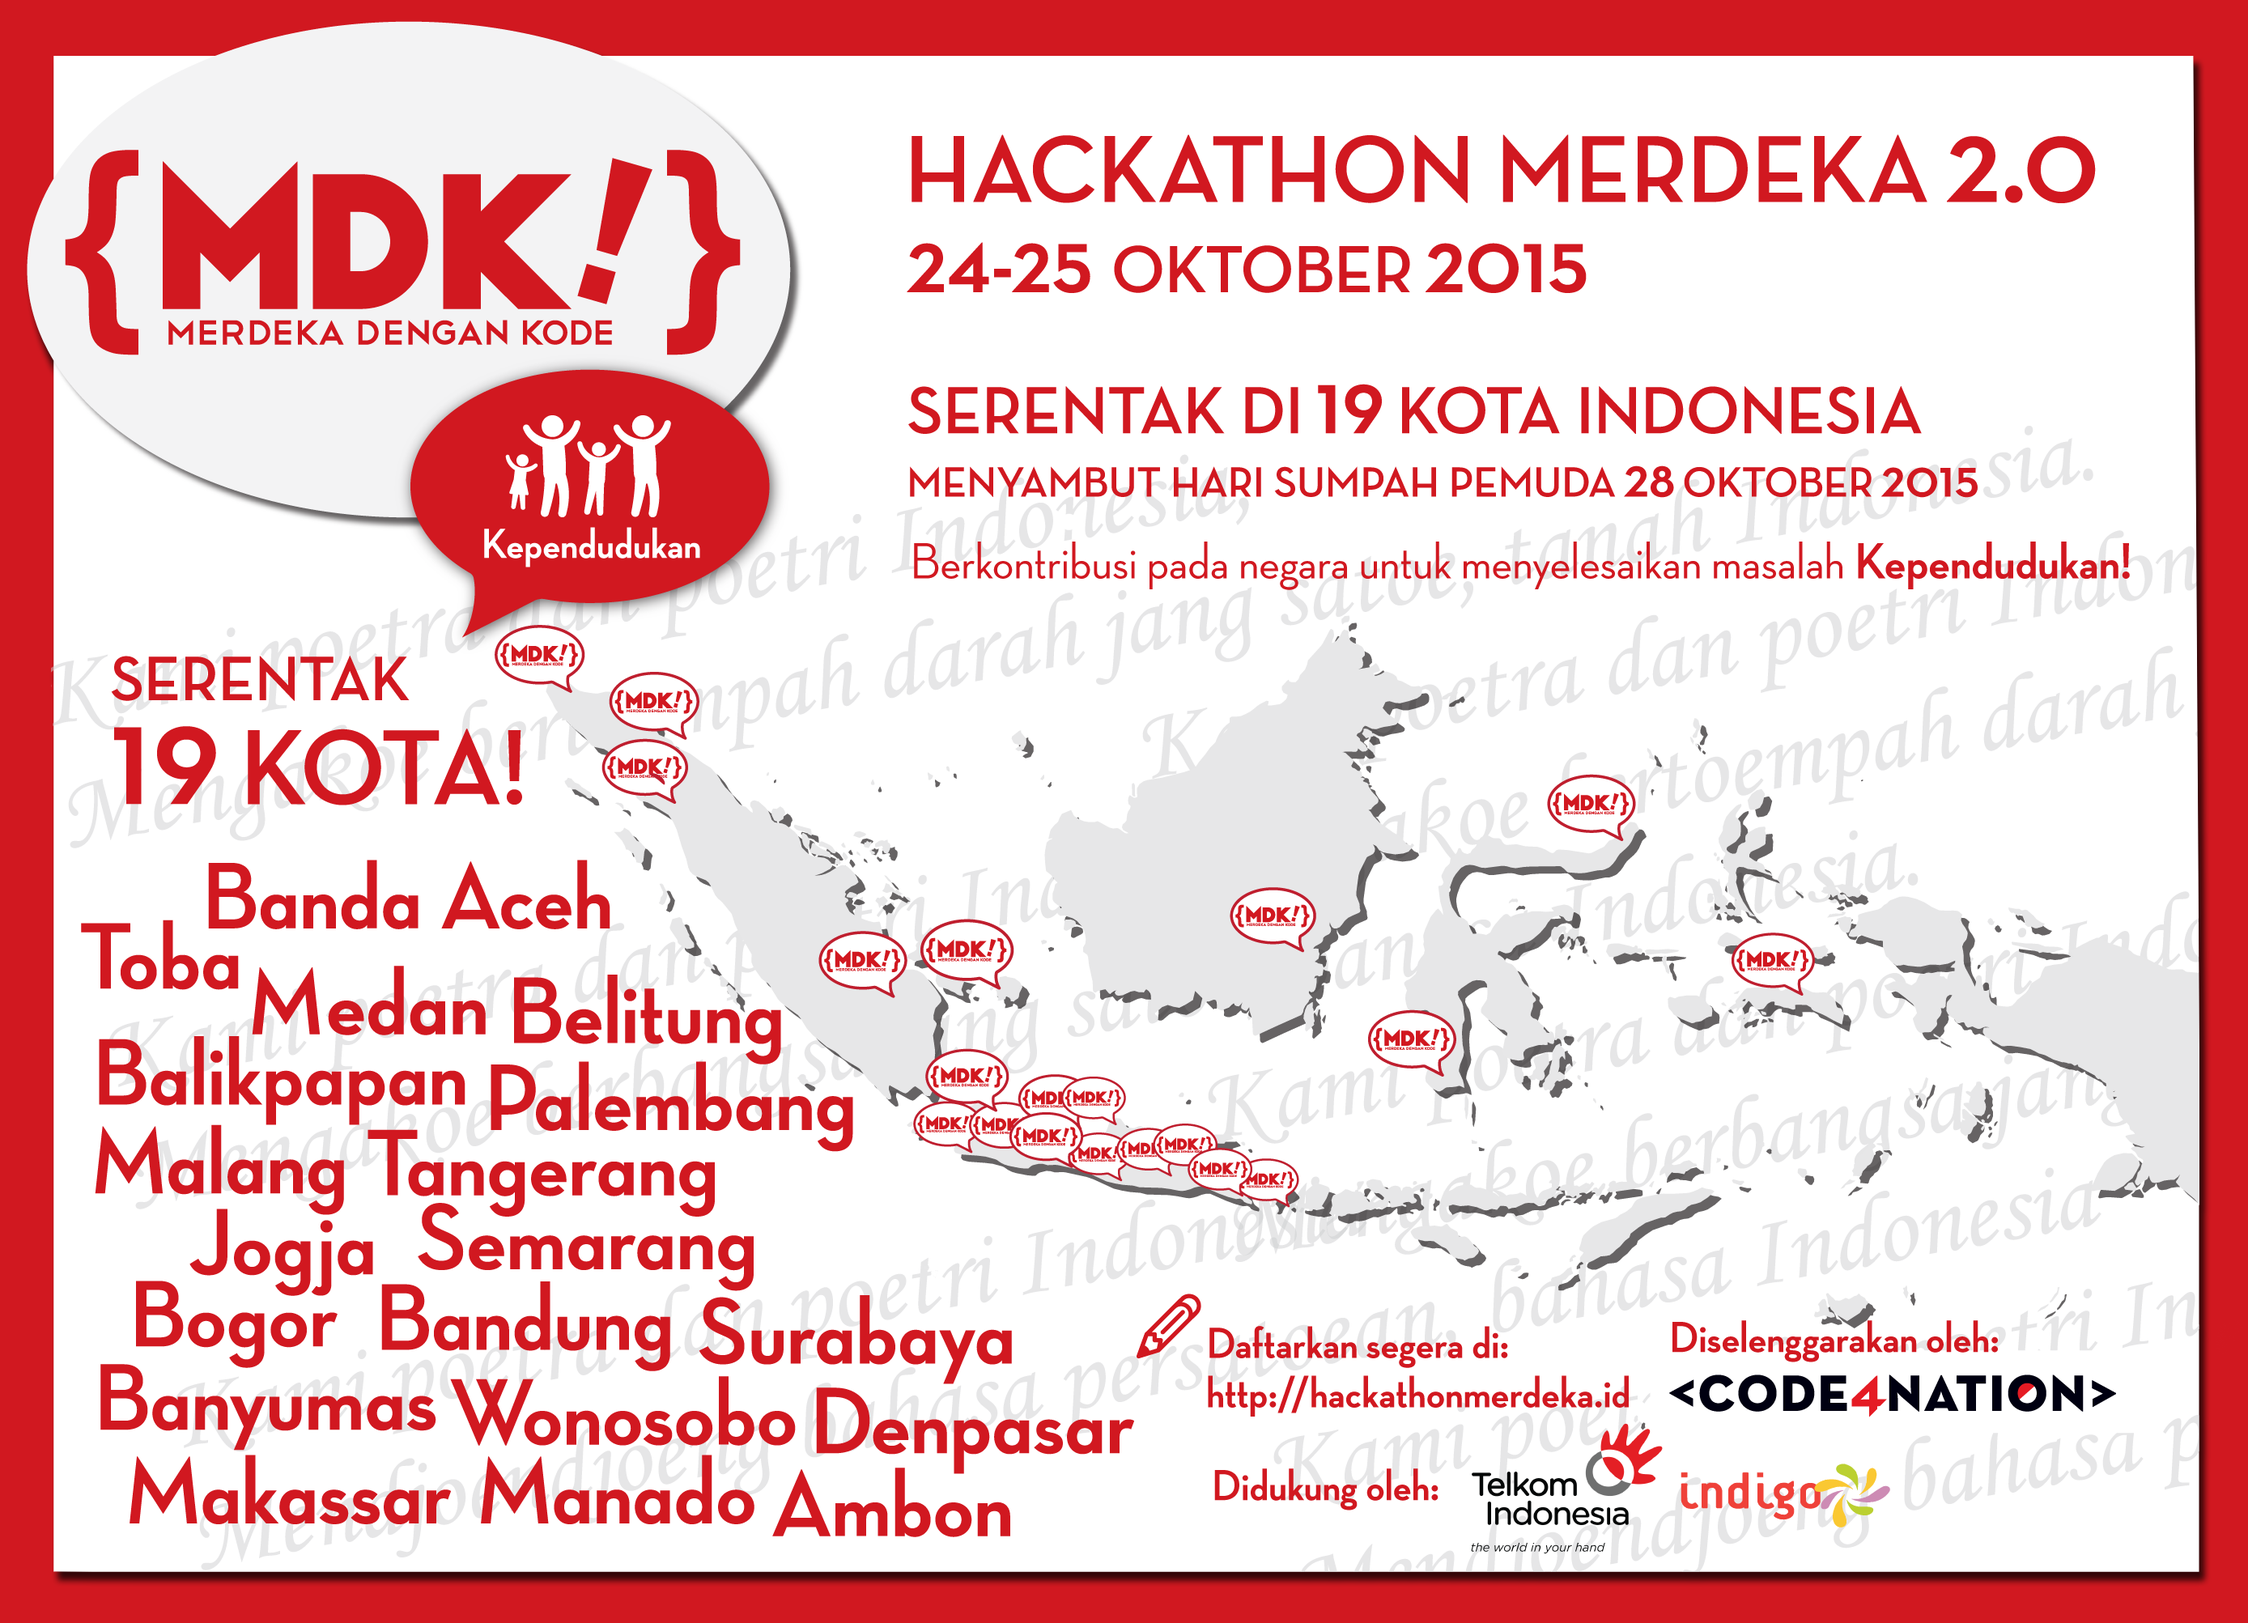
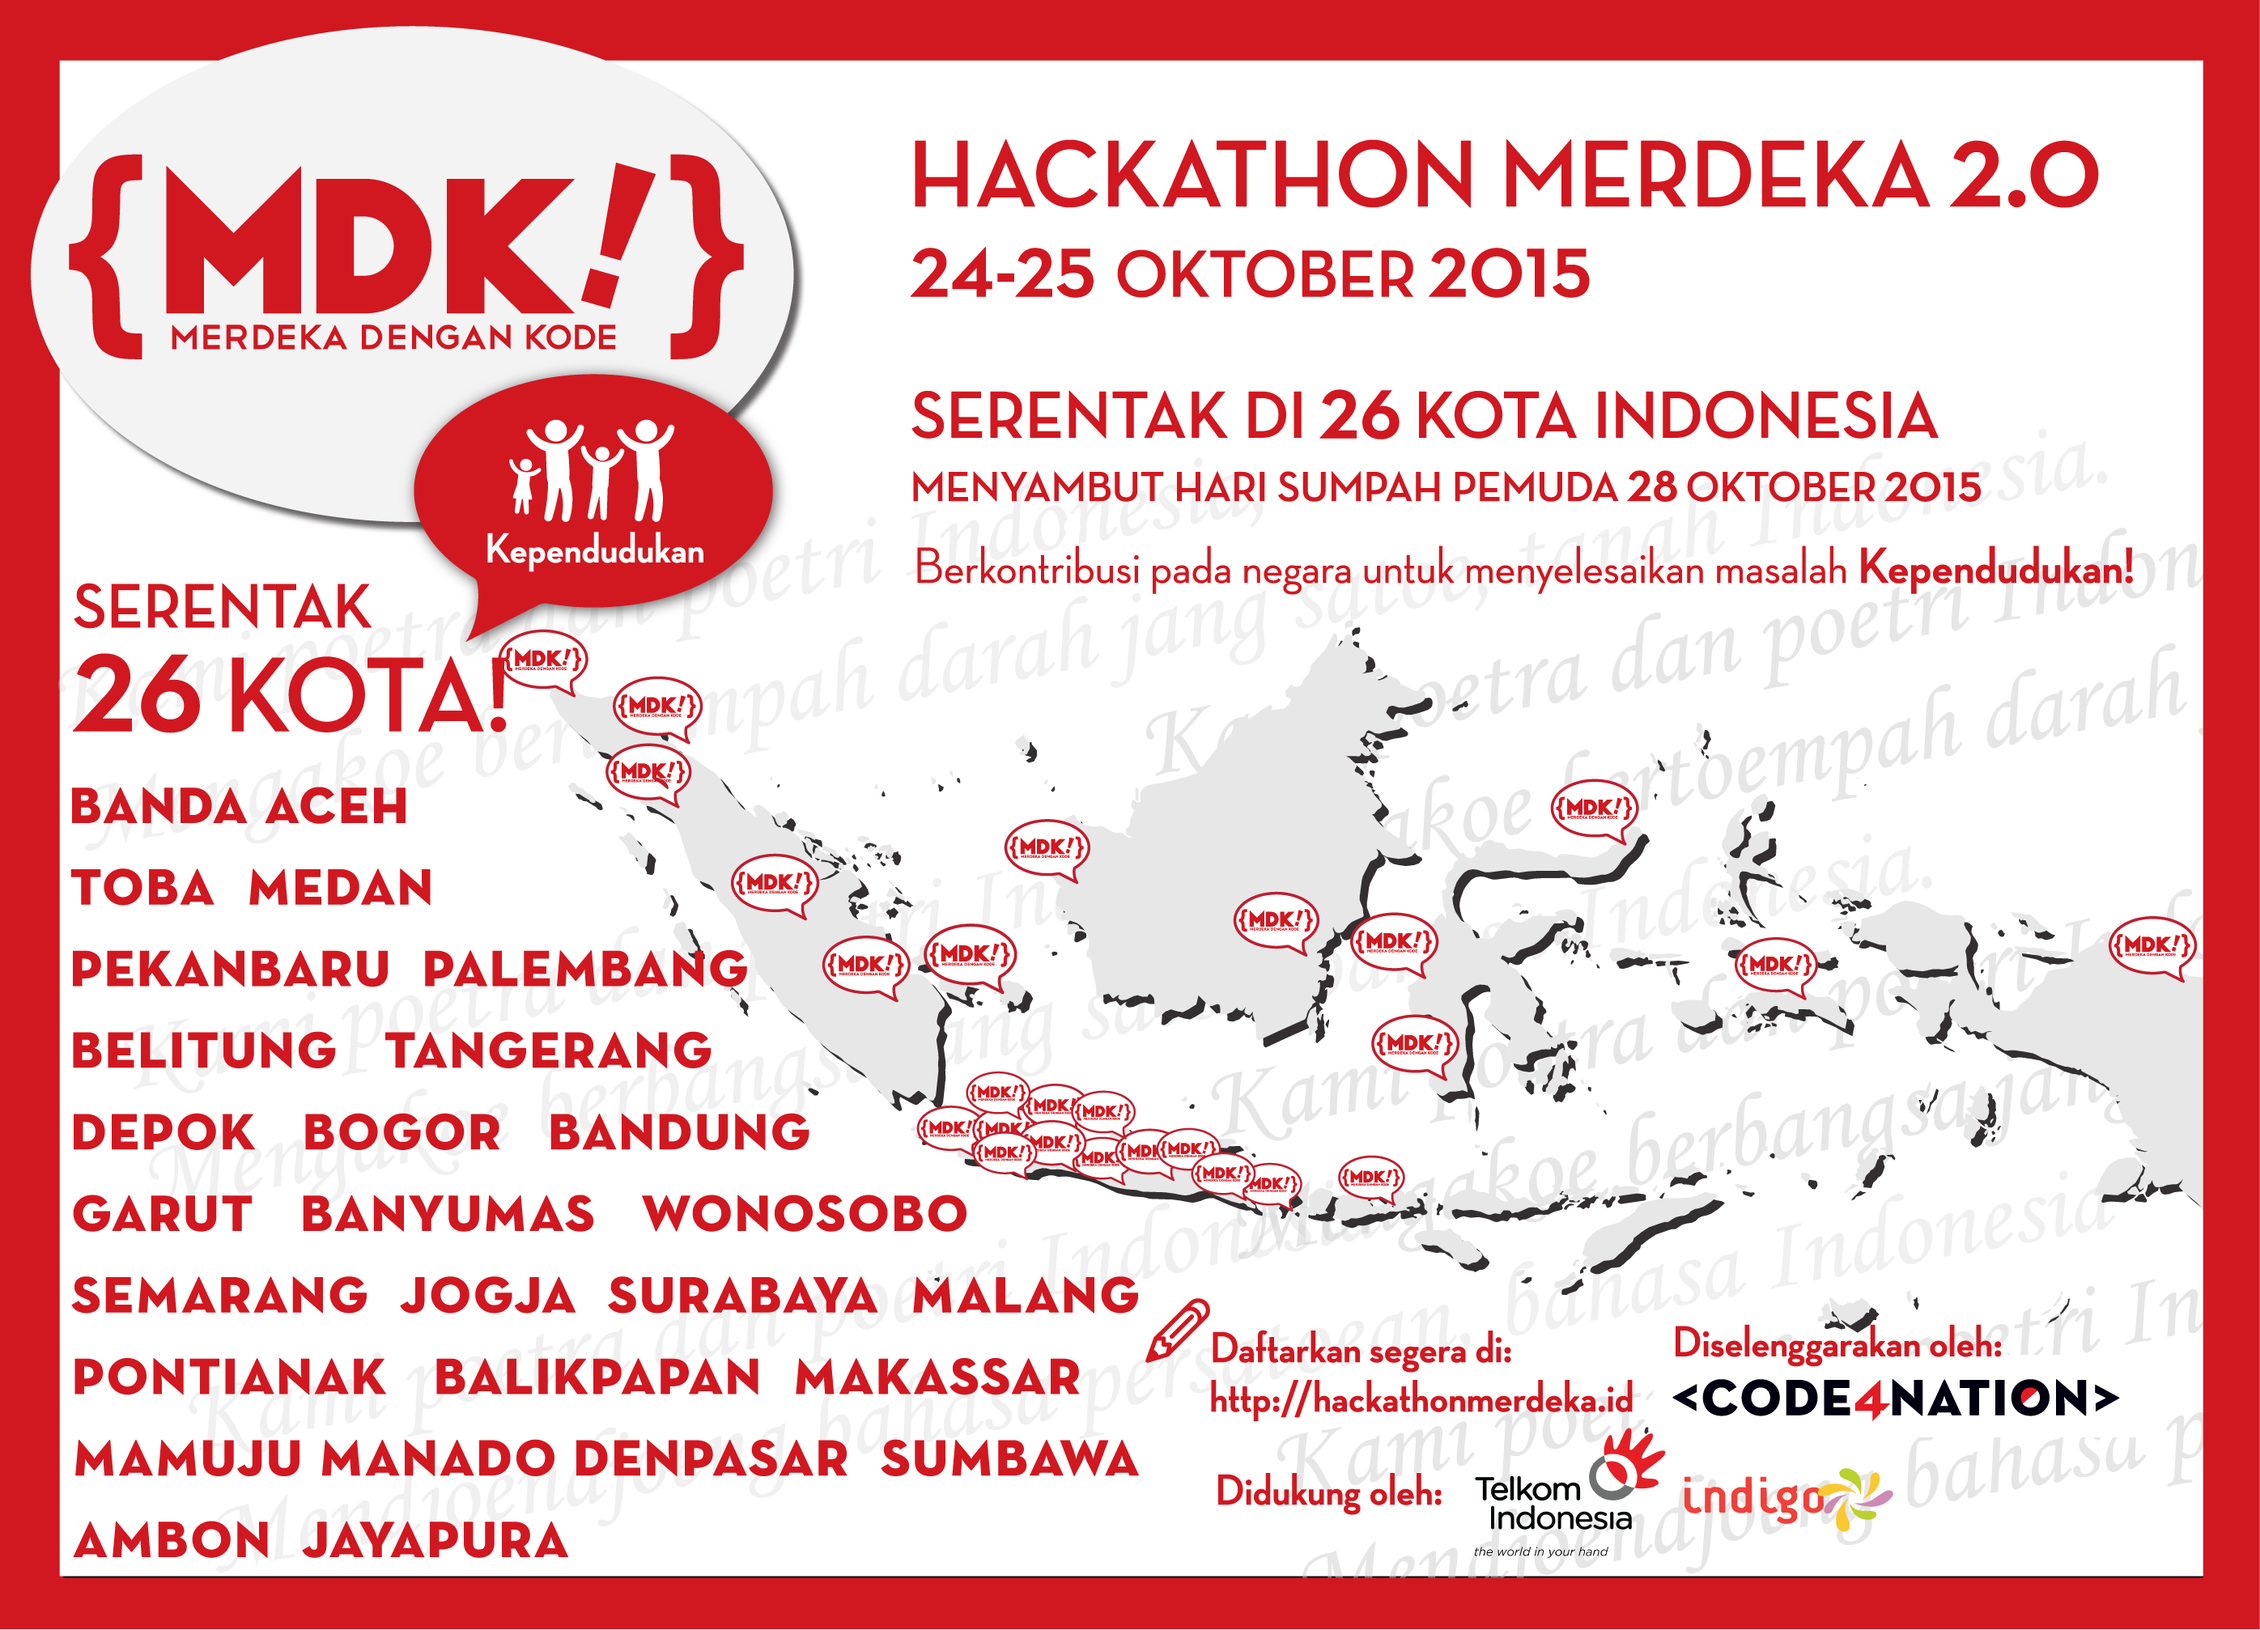
Change 19 cities to 26

diff --git a/_layouts/home.html b/_layouts/home.html
@@ -77,7 +77,7 @@ layout: default
 				<div class="content">
 					<div class="title">HACKATHON MERDEKA 2.0</div>
 					<h2><i class="fa fa-calendar"></i> 24 - 25 Oktober 2015</h2>
-					<h2><i class="fa fa-map-o"></i> Serentak di 19 Kota di Indonesia</h2>
+					<h2><i class="fa fa-map-o"></i> Serentak di 26 Kota di Indonesia</h2>
 					<a href="{{ site.baseurl }}/registrasi" class="btn btn-danger">Daftar</a>
 				</div>
 			</div>

diff --git a/teras.md b/teras.md
@@ -8,4 +8,4 @@ layout: home
 ## Hackathon Merdeka 2.0
 - - -
 
-Setelah sukses menyelenggarakan Hackathon Merdeka yang pertama pada bulan Agustus lalu, Code4Nation kembali mengadakan Hackathon Merdeka pada tanggal 24-25 Oktober serentak di 19 kota di penjuru Indonesia dan para pemenangnya akan dikumpulkan di Jakarta pada momen Hari Sumpah Pemuda 28 Oktober 2015.
+Setelah sukses menyelenggarakan Hackathon Merdeka yang pertama pada bulan Agustus lalu, Code4Nation kembali mengadakan Hackathon Merdeka pada tanggal 24-25 Oktober serentak di 26 kota di penjuru Indonesia dan para pemenangnya akan dikumpulkan di Jakarta pada momen Hari Sumpah Pemuda 28 Oktober 2015.
